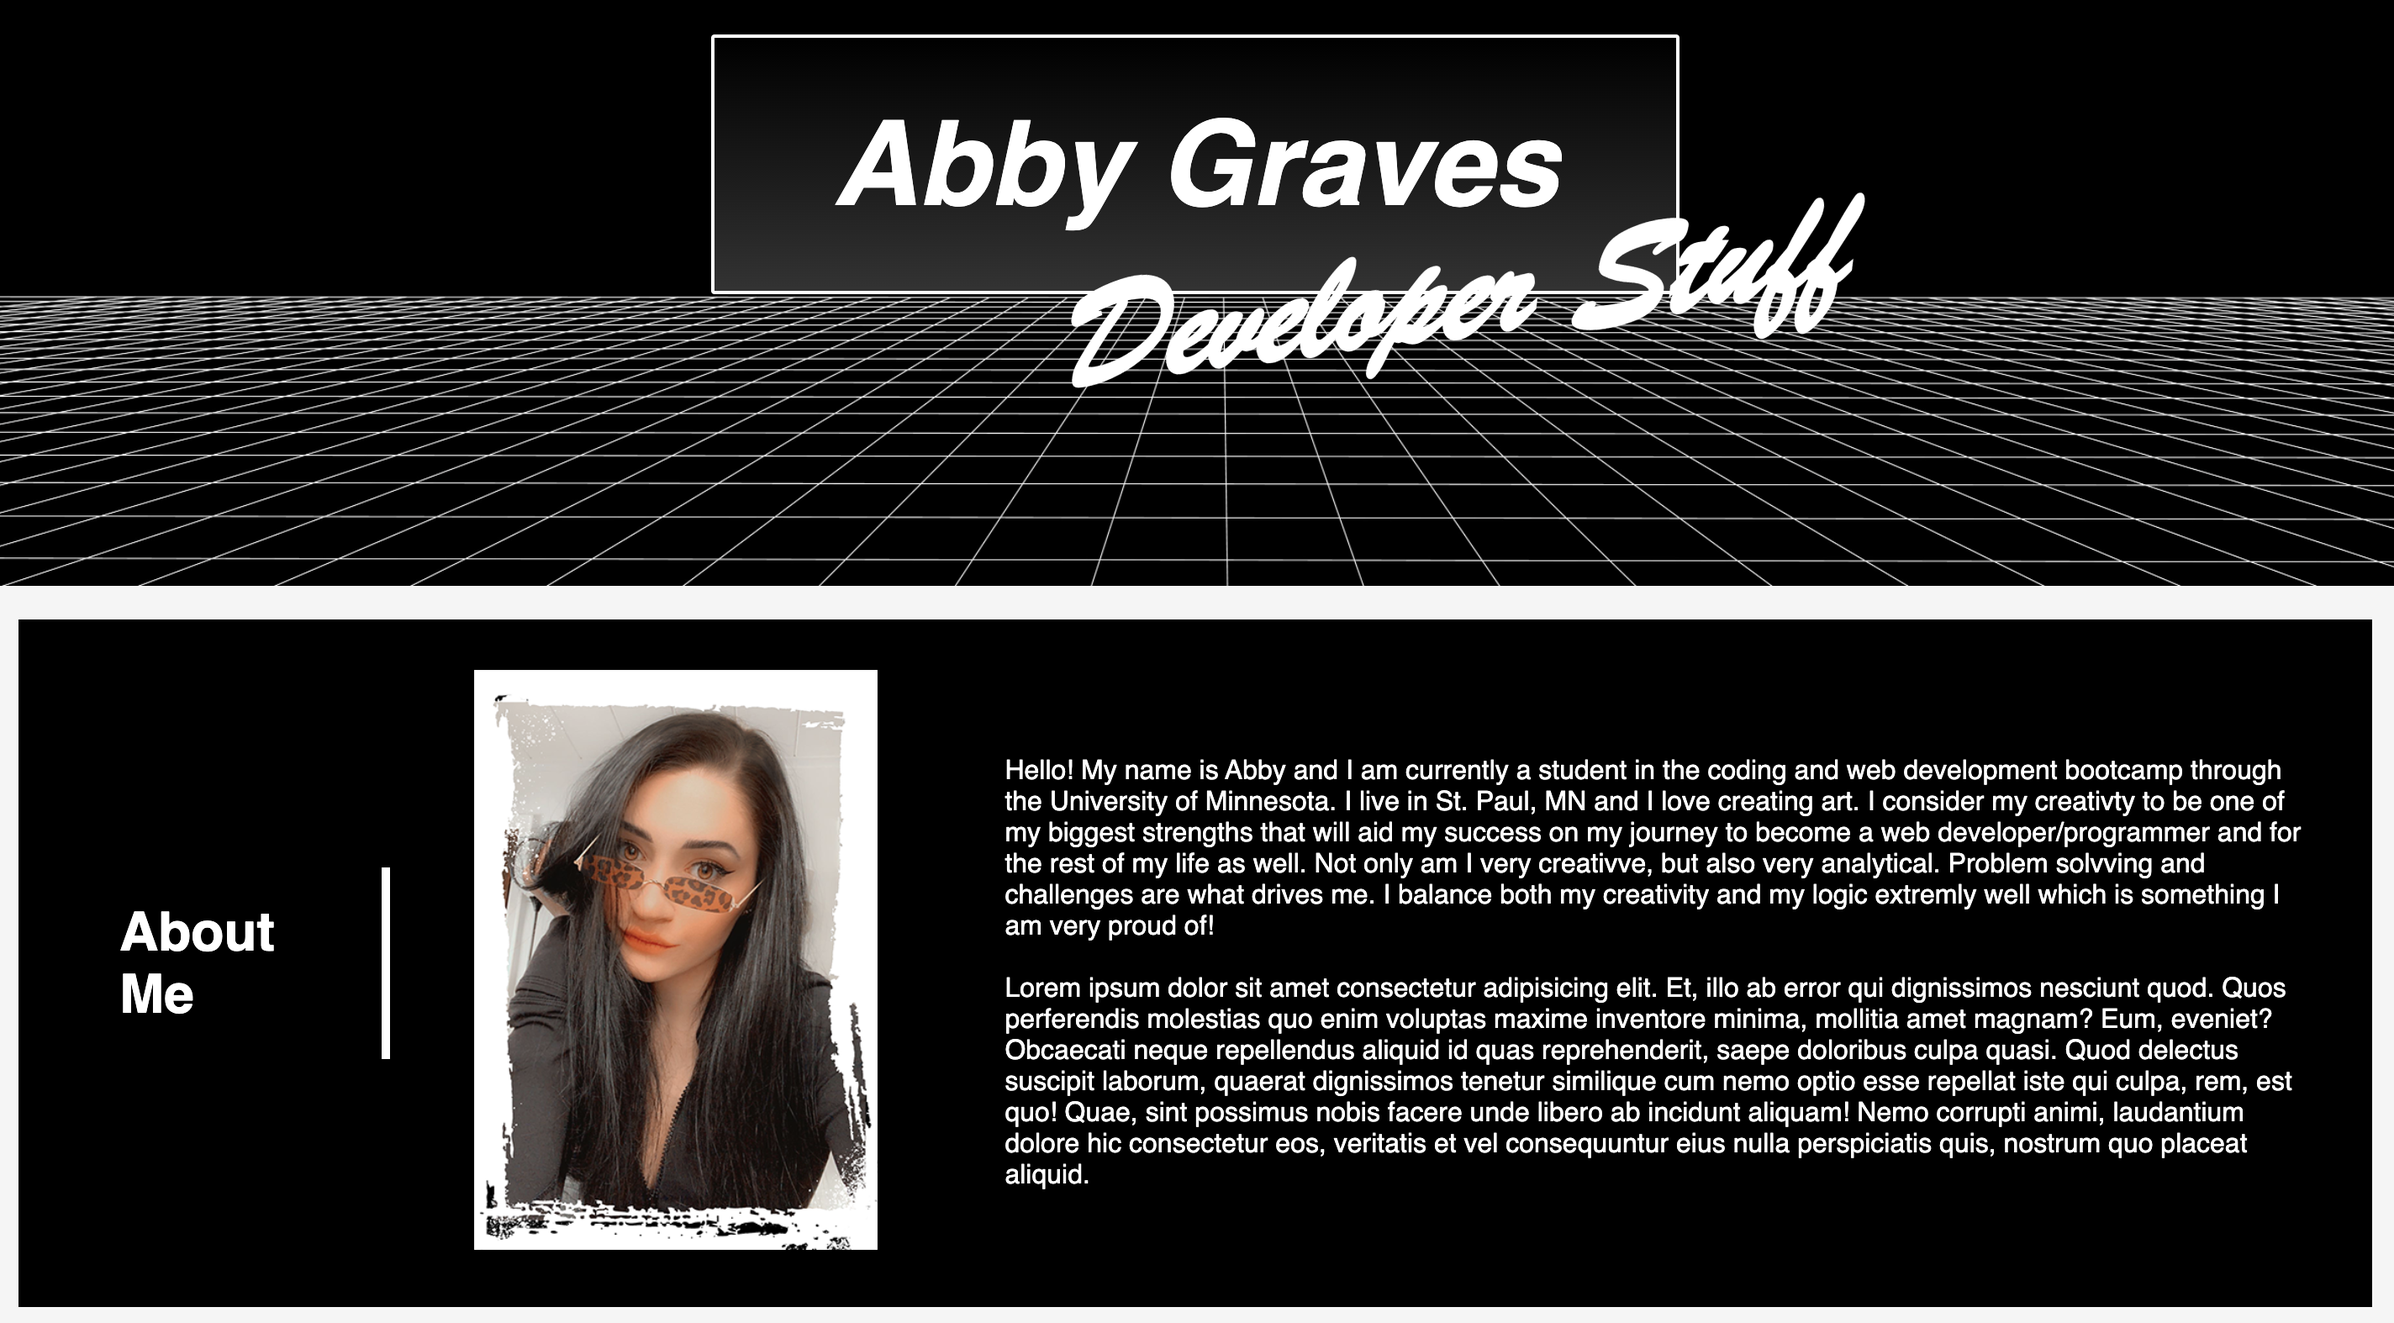
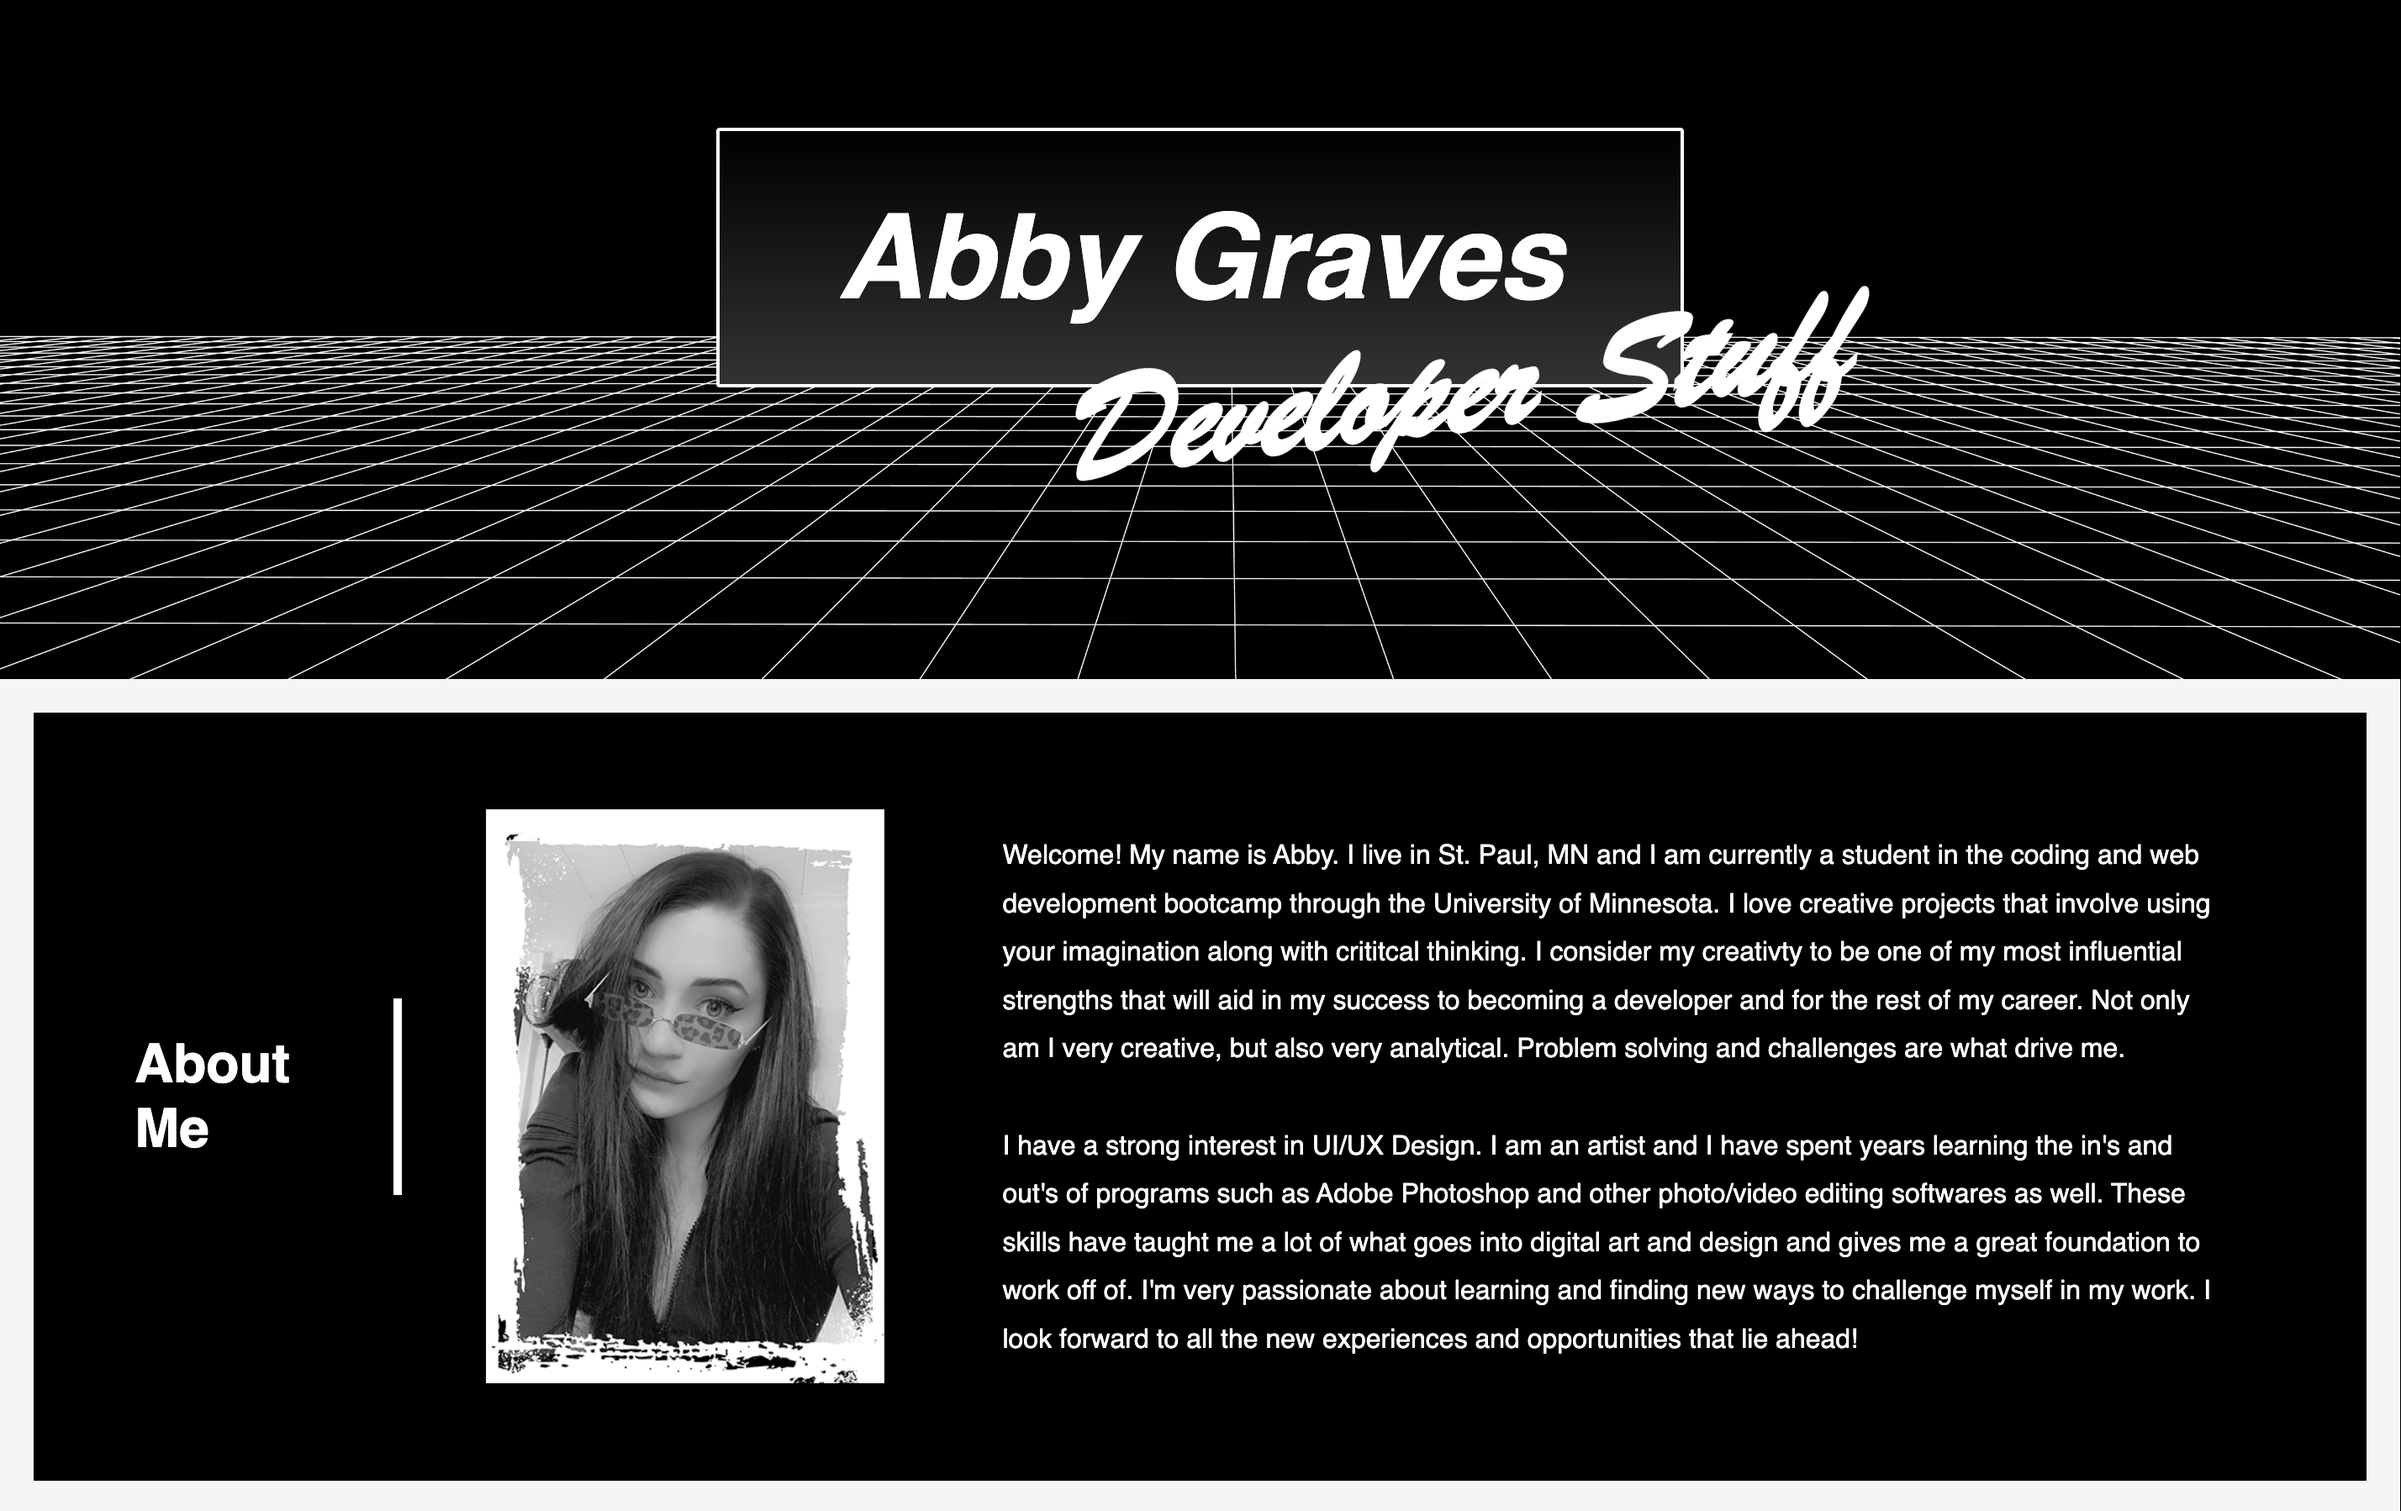
updated aout me section and README application screenshot

Changed region(s): [[0.0, 0.0623, 1.0, 0.9962]]

diff --git a/assets/css/style.css b/assets/css/style.css
@@ -87,7 +87,6 @@ header nav ul li a {
 header nav ul li a:hover {
   border-bottom: 6px solid var(--secondary-color);
 }
-
 /* HEADER + NAV STYLE END */
 
 
@@ -135,7 +134,6 @@ header nav ul li a:hover {
   font-family: Brush Script MT;
   padding: 0;
 }
-
 /* HERO STYLE END */
 
 
@@ -169,27 +167,30 @@ header nav ul li a:hover {
   flex-wrap: wrap;
   justify-content: space-between;
 }
-
 /* SECTIONS STYLE END */
 
 
 /* ABOUT ME STYLE START */
+.about-me {
+  display: flex;
+  align-items: center;
+}
+
 .about-me img {
   width: 25%;
   padding: 0 20px;
-  margin-top: 0px;
+  /* margin-top: 0px; */
   filter: grayscale(100%);
 }
 
 .about-me p {
   width: 70%;
   float: right;
-  margin: 70px 0 40px 0;
-  text-align: left;
+  margin: 40px 50px;
+  text-align:left;
   line-height: 1.8;
-  font-size: 18px;
+  font-size: 16px;
 }
-
 /* ABOUT ME STYLE END */
 
 
@@ -262,8 +263,8 @@ header nav ul li a:hover {
   font-weight: lighter;
   font-style: italic;
 }
-
 /* MY WORK STYLE END */
+
 
 /* CONTACT STYLE START */
 .contact-info {
@@ -296,9 +297,7 @@ header nav ul li a:hover {
   color: var(--primary-color);
   border-radius: 3px;
 }
-
 /* CONTACT STYLE END */
-
 
 
 /* FOOTER STYLE START */
@@ -316,9 +315,6 @@ footer p {
   padding: 30px 20px 30px 20px;
   font-size: 14px;
 }
-
-
-
 /* FOOTER STYLE END */
 
 
@@ -331,7 +327,7 @@ footer p {
 
 /* —————— MEDIA QUERIES —————— */
 
-/* MEDIA QUERY FOR SMALLER DESKTOP SCRRENS AND SMALLER */
+/* MEDIA QUERY FOR SMALLER DESKTOP SCREENS AND SMALLER */
 @media screen and (max-width:1125px) {
   .hero {
     height: 300px;
@@ -369,10 +365,6 @@ footer p {
     flex: 100%;
     margin: 0;
     text-align: center;
-  }
-
-  .about-me img {
-    margin-top: 100px;
   }
 }
 
@@ -417,6 +409,19 @@ footer p {
   .section-content {
     flex-direction: column;
     line-height: 1.3;
+  }
+
+  .about-me {
+    flex-direction: column;
+  }
+
+  .about-me img {
+    width: 50%;
+  }
+
+  .about-me p {
+    text-align: center;
+    width: 100%;
   }
 
   .main {

diff --git a/index.html b/index.html
@@ -56,13 +56,16 @@
         <div class="about-me">
           <img src="./assets/images/Photo-of-me.png" alt="selfie of Abby Graves wearing cheetah print sunglasses." />
           <p>
-            Welcome! My name is Abby and I am currently a student in the coding and web development bootcamp through the University of Minnesota. I live 
-            in St. Paul, MN and I love creating art. I consider my creativty to be one of my biggest strengths that will aid my success on my journey 
-            to become a web developer/programmer and for the rest of my life as well. Not only am I very creative, but also very analytical. Problem 
-            solving and challenges are what drive me. I balance both my creativity and my logic extremly well which is something I am very proud of!
+            Welcome! My name is Abby. I live in St. Paul, MN and I am currently a student in the coding and web development bootcamp through 
+            the University of Minnesota. I love creative projects that involve using your imagination along with crititcal thinking. I consider 
+            my creativty to be one of my most influential strengths that will aid in my success to becoming a developer and for the rest of my 
+            career. Not only am I very creative, but also very analytical. Problem solving and challenges are what drive me.
             <br/>
             <br/>
-            
+            I have a strong interest in UI/UX Design. I am an artist and I have spent years learning the in's and out's of programs such as Adobe 
+            Photoshop and other photo/video editing softwares as well. These skills have taught me a lot of what goes into digital art and design 
+            and gives me a great foundation to work off of. I'm very passionate about learning and finding new ways to challenge myself in my work.
+            I look forward to all the new experiences and opportunities that lie ahead!
           </p>
         </div>
       </div>  
